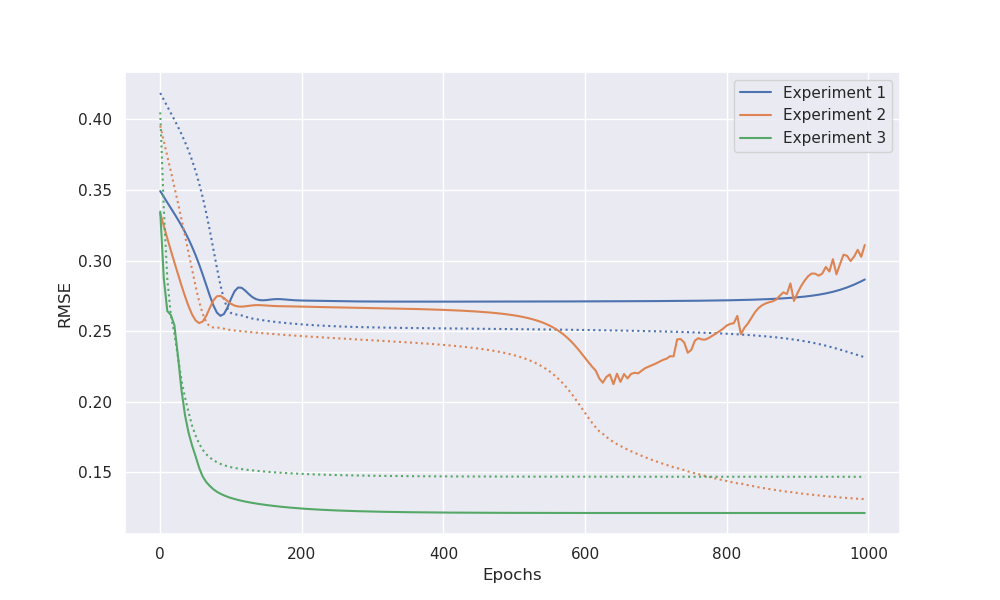
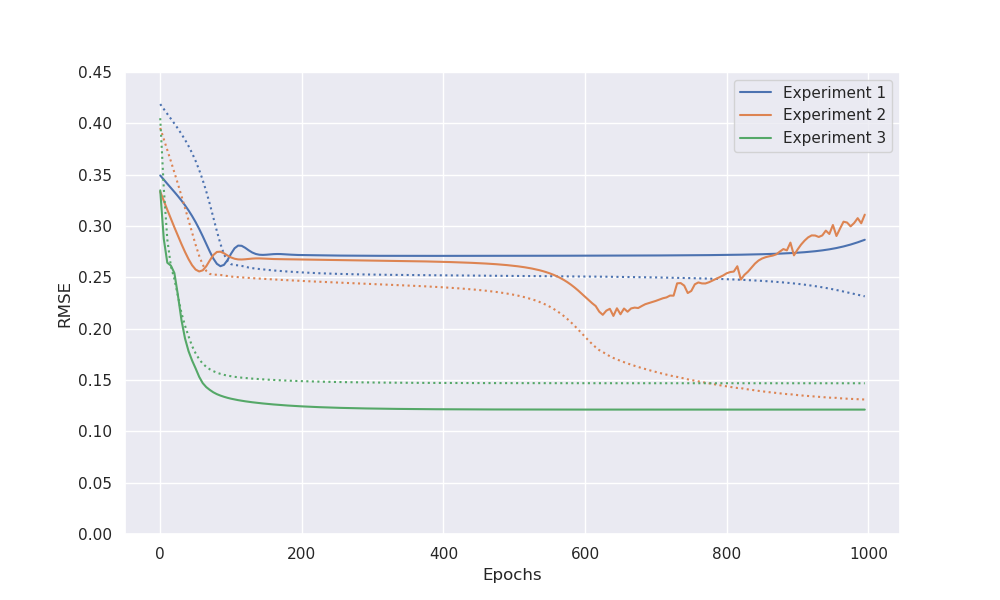
finished section 2.2

diff --git a/plots/plot_dict_learning_experiment_4.py b/plots/plot_dict_learning_experiment_4.py
@@ -1,0 +1,77 @@
+from pathlib import Path
+import pandas as pd
+import seaborn as sns
+import matplotlib.pyplot as plt
+
+sns.set_theme(style='darkgrid')
+
+# Load the CSV file into a DataFrame
+
+RESULTS_DIR = Path(__file__).parent.joinpath('data/dict_learning')
+exp4_train_32 = pd.read_csv(RESULTS_DIR.joinpath('experiment_4_step3_32_train.csv'))
+exp4_val_32 = pd.read_csv(RESULTS_DIR.joinpath('experiment_4_step3_32_validation.csv'))
+exp4_train_64 = pd.read_csv(RESULTS_DIR.joinpath('experiment_4_step3_64_train.csv'))
+exp4_val_64 = pd.read_csv(RESULTS_DIR.joinpath('experiment_4_step3_64_validation.csv'))
+exp4_train_128 = pd.read_csv(RESULTS_DIR.joinpath('experiment_4_step3_128_train.csv'))
+exp4_val_128 = pd.read_csv(RESULTS_DIR.joinpath('experiment_4_step3_128_validation.csv'))
+exp4_train_256 = pd.read_csv(RESULTS_DIR.joinpath('experiment_4_step3_256_train.csv'))
+exp4_val_256 = pd.read_csv(RESULTS_DIR.joinpath('experiment_4_step3_256_validation.csv'))
+
+colours = sns.color_palette()
+
+# Create a Seaborn plot
+plt.figure(figsize=(10, 6))
+sns.lineplot(
+    data=exp4_train_32.iloc[::5,], x='Step', y='Value', linestyle='dotted', color=colours[0]
+)
+sns.lineplot(
+    data=exp4_val_32.iloc[::5,],
+    x='Step',
+    y='Value',
+    linestyle='solid',
+    color=colours[0],
+    label='32',
+)
+sns.lineplot(
+    data=exp4_train_64.iloc[::5,], x='Step', y='Value', linestyle='dotted', color=colours[1]
+)
+sns.lineplot(
+    data=exp4_val_64.iloc[::5,],
+    x='Step',
+    y='Value',
+    linestyle='solid',
+    color=colours[1],
+    label='64',
+)
+sns.lineplot(
+    data=exp4_train_128.iloc[::5,], x='Step', y='Value', linestyle='dotted', color=colours[2]
+)
+sns.lineplot(
+    data=exp4_val_128.iloc[::5,],
+    x='Step',
+    y='Value',
+    linestyle='solid',
+    color=colours[2],
+    label='128',
+)
+sns.lineplot(
+    data=exp4_train_256.iloc[::5,], x='Step', y='Value', linestyle='dotted', color=colours[3]
+)
+sns.lineplot(
+    data=exp4_val_256.iloc[::5,],
+    x='Step',
+    y='Value',
+    linestyle='solid',
+    color=colours[3],
+    label='256',
+)
+
+# Add title and labels
+# plt.title('Step vs Value')
+plt.xlabel('Epochs')
+plt.ylabel('RMSE')
+plt.legend()
+plt.ylim(0, 0.30)
+
+# Save the plot
+plt.savefig(Path(__file__).parent.parent.joinpath('docs', 'dict_learning_experiments_4.png'))

diff --git a/docs/report.tex b/docs/report.tex
@@ -146,7 +146,20 @@ Below are the experiments that were run using the dictionary learning approach. 
 
 \paragraph{Experiment 2} This experiment uses the same model as in Experiment 1, but with a dataset only consisting of examples with no missing data. Whilst the model performance was marginally better for most of the training, the model began to overfit around the 500 epoch mark. The code for this experiment is located in \texttt{experiment\_2.py}.
 
-\paragraph{Experiment 3} This experiment uses a higher parameter LSTM model, and adds a periodic time encoding to the input and output of the LSTM. Specifically, this time encoding is a sinusoidal projection of the time dimension, as described as the positional encoding in \cite{vaswani2017attention}.
+\paragraph{Experiment 3} This experiment uses a slightly higher parameter LSTM model, and adds a periodic time encoding to the input and output of the LSTM. Specifically, this time encoding is a sinusoidal projection of the time dimension, as described as the positional encoding in \cite{vaswani2017attention}. The number of trainable parameters within this LSTM is 10.5K. The code for this experiment is located in \texttt{experiment\_3.py}. This modification substantially improved performance, with a validation loss of around 0.1.
+
+\paragraph{Experiment 4} Given the relative success of Experiment 3, this experiment plots the training and validation curves for varying latent space sizes using the same model. The code for this experiment is located in \texttt{experiment\_4.py}. The results of this experiment are shown in \Cref{fig:losses_dict_latent_space}.
+
+\begin{figure}
+  \centering
+  \includegraphics[width=\columnwidth]{dict_learning_experiments_4.png}
+  \caption{Training and validation losses for model proposed in Experiment 3, with varying latent space sizes. Dotted lines indicate the training loss, and solid lines indicate the validation loss.}
+  \label{fig:losses_dict_latent_space}
+\end{figure}
+
+\section{Large Data Model Development}
+
+This section details the development of a model using the full number of CpG sites available.
 
 \bibliography{references}
 \end{document}

diff --git a/plots/plot_dict_learning_experiment_1_to_3.py b/plots/plot_dict_learning_experiment_1_to_3.py
@@ -49,6 +49,7 @@ sns.lineplot(
 plt.xlabel('Epochs')
 plt.ylabel('RMSE')
 plt.legend()
+plt.ylim(0, 0.45)
 
 # Save the plot
-plt.savefig('dict_learning_experiments_1_to_3.png')
+plt.savefig(Path(__file__).parent.parent.joinpath('docs', 'dict_learning_experiments_1_to_3.png'))

diff --git a/plots/plot_cnn_autoencoder_experiments_1_to_3.py b/plots/plot_cnn_autoencoder_experiments_1_to_3.py
@@ -51,6 +51,7 @@ sns.lineplot(
 plt.xlabel('Epochs')
 plt.ylabel('RMSE')
 plt.legend()
+# plt.ylim(0, 0.45)
 
 # Save the plot
-plt.savefig('plot_experiments_1_to_3.png')
+plt.savefig(Path(__file__).parent.parent.joinpath('docs', 'cnn_autoencoder_experiments_1_to_3.png'))

diff --git a/plots/plot_cnn_autoencoder_experiment_4.py b/plots/plot_cnn_autoencoder_experiment_4.py
@@ -51,6 +51,7 @@ sns.lineplot(
 plt.xlabel('Epochs')
 plt.ylabel('RMSE')
 plt.legend()
+# plt.ylim(0, 0.45)
 
 # Save the plot
-plt.savefig('plot_experiments_4.png')
+plt.savefig(Path(__file__).parent.parent.joinpath('docs', 'cnn_autoencoder_experiments_4.png'))
